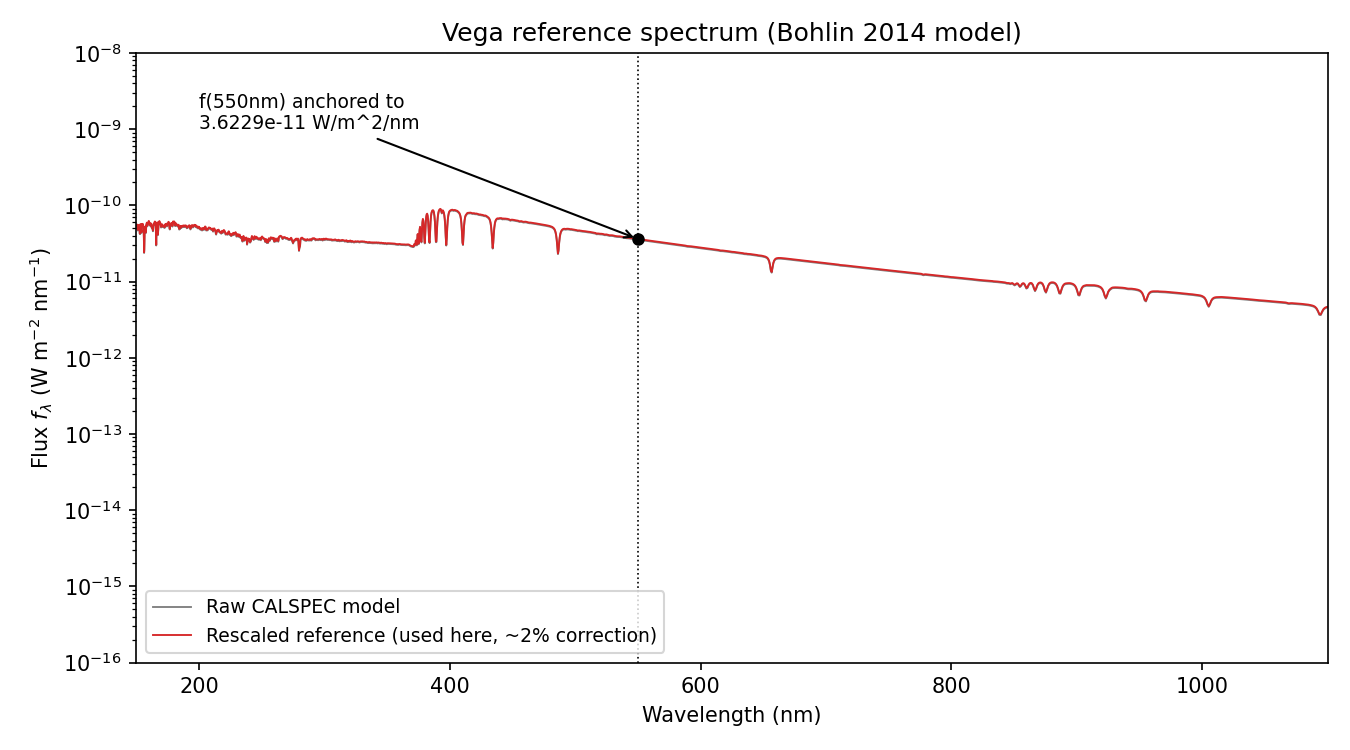
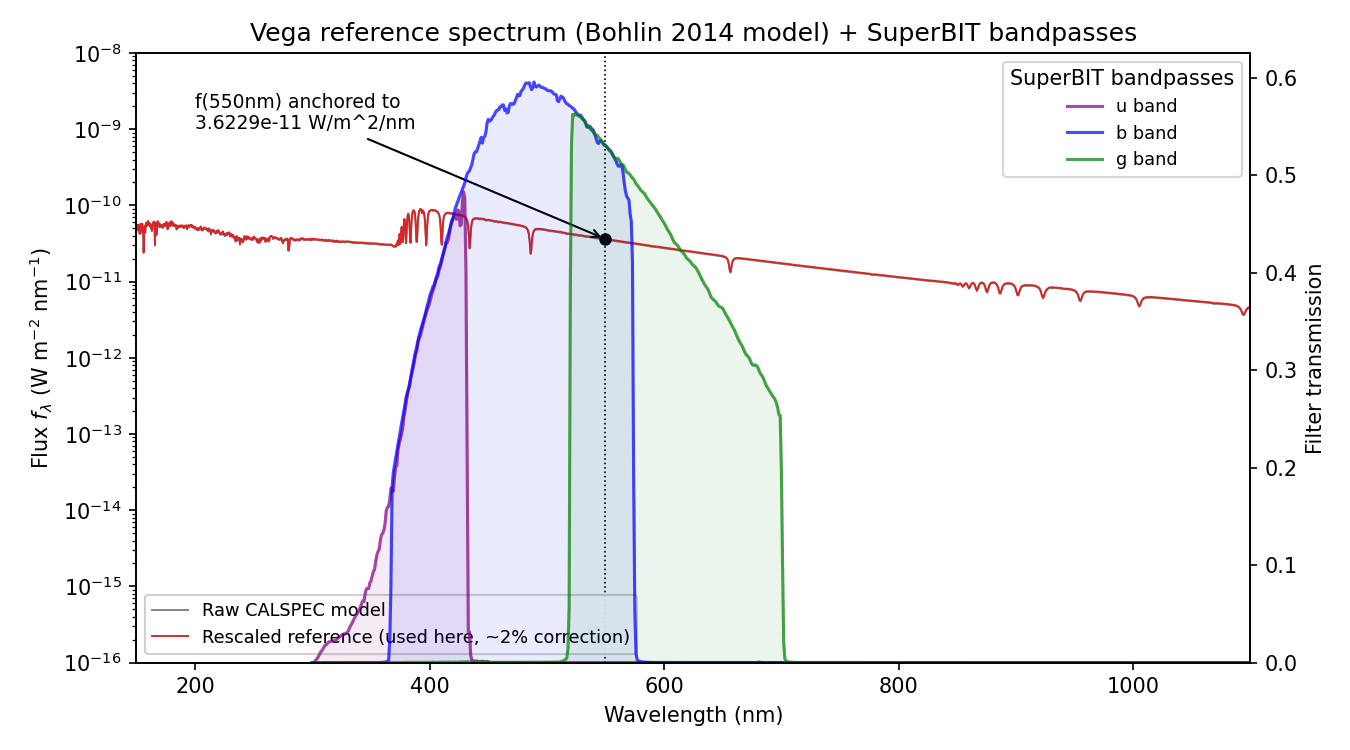
Update results for sigma_clip_sigma=5.0, add bandpasses to Vega figure
Reran the pipeline with the new sigma-clip threshold and updated the
README results table and diagnostic plot accordingly. Also added
SuperBIT's u/b/g bandpasses to the Vega reference spectrum figure (with
its own separate legend from the spectrum lines), and updated theory.md's
caption to match.

diff --git a/theory.md b/theory.md
@@ -72,8 +72,9 @@ backward compatibility. All spectra and flux quantities in this pipeline
 are kept in SI units (W, m, nm) throughout, consistently.
 
 The Vega reference spectrum used for $m_{\rm Vega}$ above (a CALSPEC model,
-Bohlin 2014) is shown below — note the absorption features referred to
-above, which are exactly what make the Vega-AB offset band-dependent:
+Bohlin 2014) is shown below, with SuperBIT's bandpasses overlaid — note the
+absorption features referred to above, which are exactly what make the
+Vega-AB offset band-dependent:
 
 ![Vega reference spectrum](docs/figures/vega_reference_spectrum.png)
 

diff --git a/README.md b/README.md
@@ -32,9 +32,9 @@ Writes per-star tables and diagnostic plots to `outputs/`. Edit
 
 | Band | ZP (AB) | ZP (Vega) |
 |------|---------|-----------|
-| u | 28.689 ± 0.005 | 28.602 ± 0.005 |
-| b | 30.227 ± 0.002 | 30.293 ± 0.002 |
-| g | 29.612 ± 0.002 | 29.534 ± 0.002 |
+| u | 28.687 ± 0.005 | 28.601 ± 0.005 |
+| b | 30.223 ± 0.004 | 30.288 ± 0.004 |
+| g | 29.610 ± 0.002 | 29.532 ± 0.002 |
 
 (jackknifed across 30 target fields; see `theory.md` for why that error
 bar, not a flat per-star one, is the one to trust)
